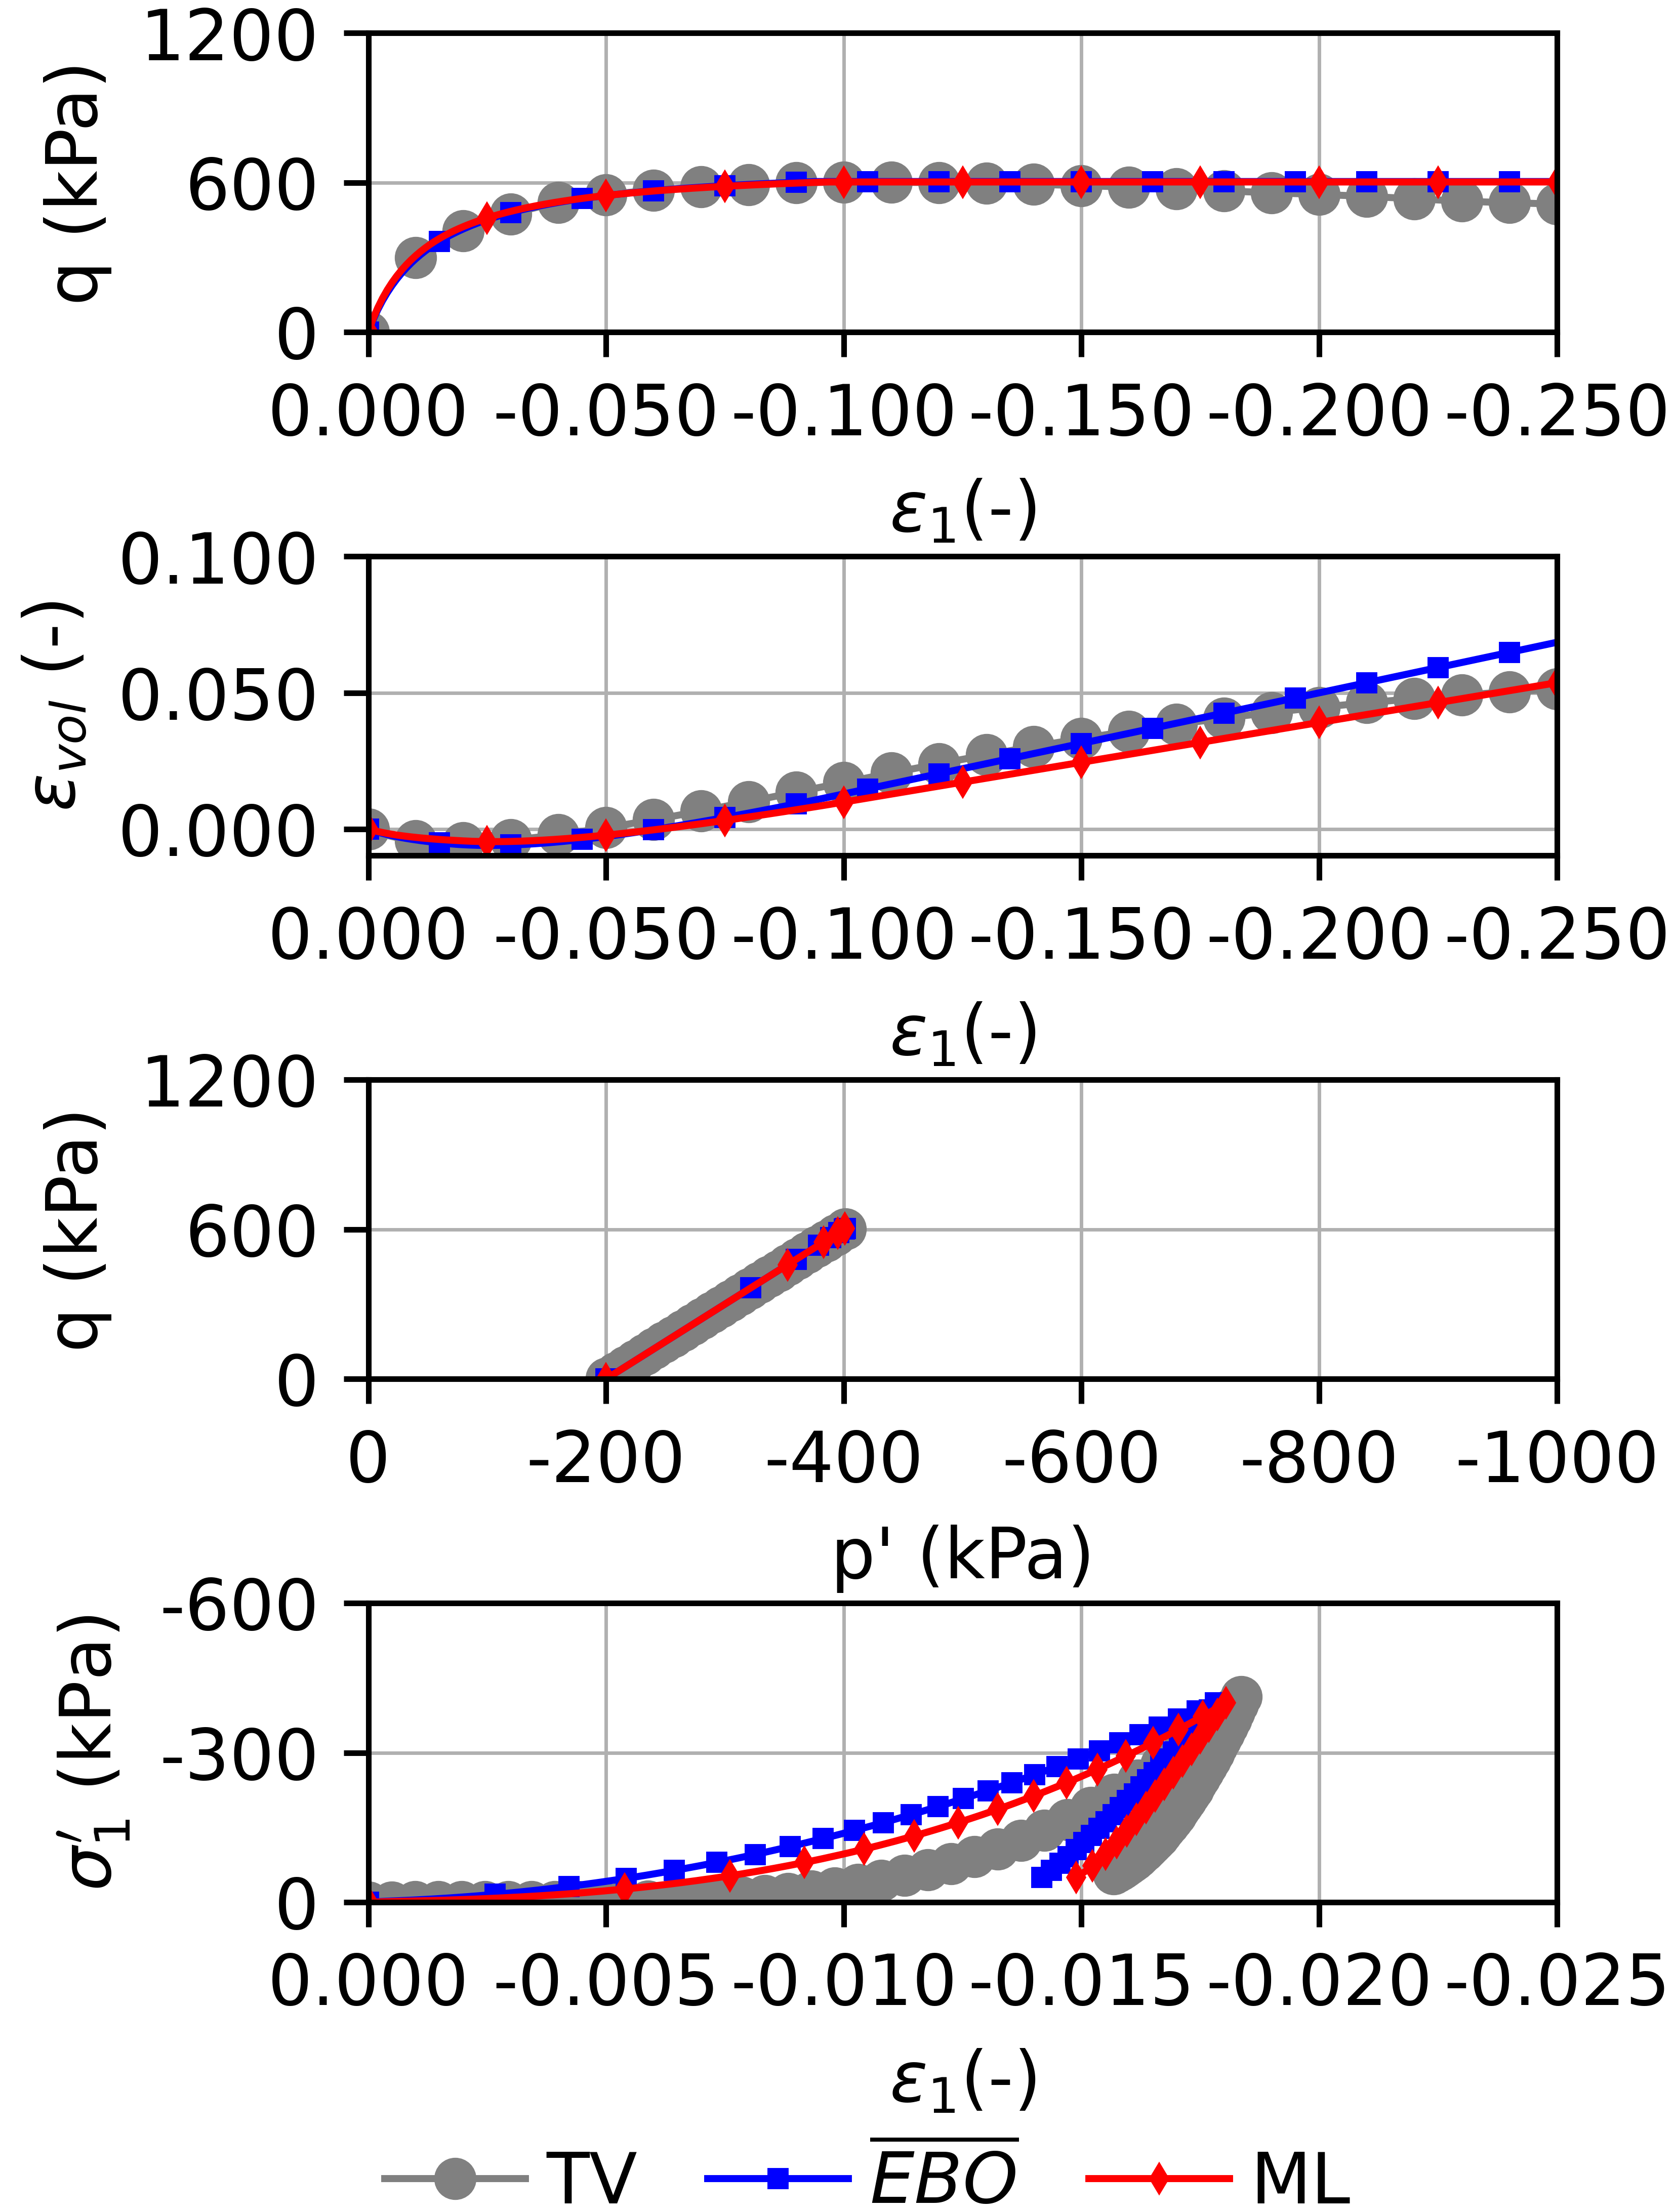
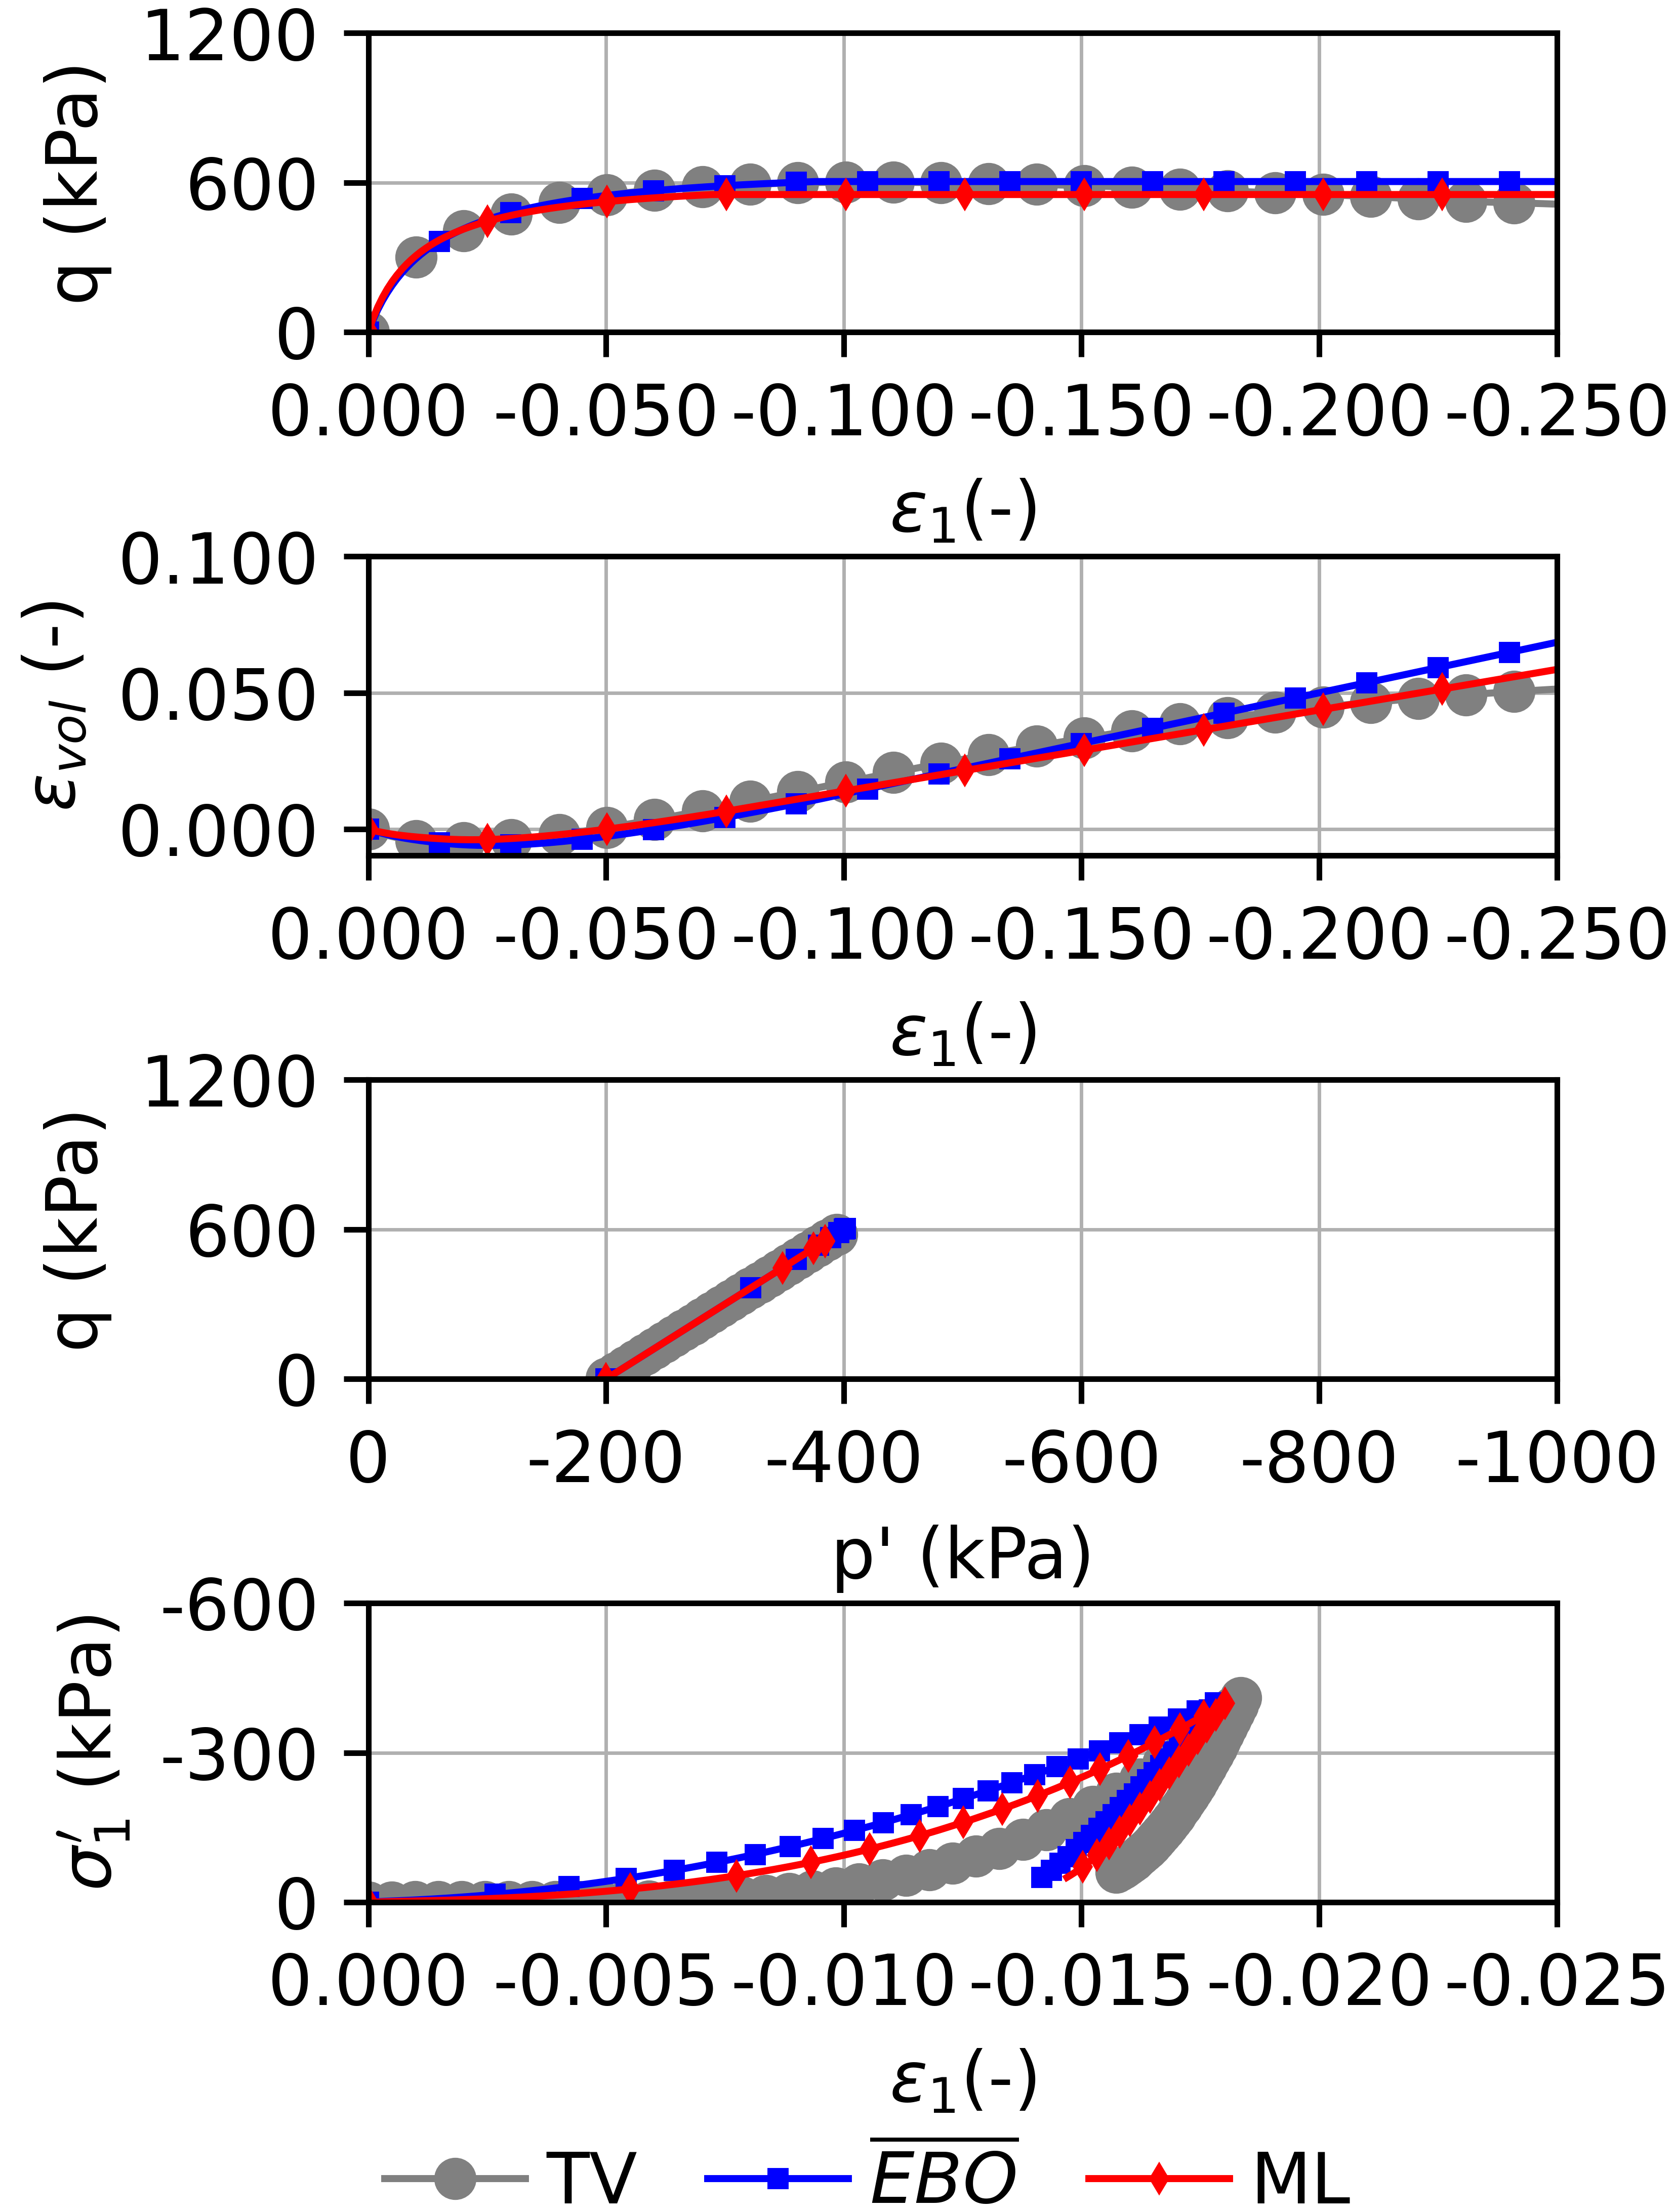
update

diff --git a/src/PLAXIS_10_Soil_test_RUN.py b/src/PLAXIS_10_Soil_test_RUN.py
@@ -158,16 +158,15 @@ g_i.soiltest(HS_mat)
 # x = pd.read_csv(r'C:\Users\haris\Documents\GitHub\MLpFEM\data\pred_analysis_realTest_karlsruhe.txt', delimiter='\t', header=None)
 # x = pd.read_csv(r'C:\Users\haris\Documents\GitHub\MLpFEM\data\pred_analysis_synthetictest_101_SyntheticExampleB.txt', delimiter='\t', header=None)
 # x = pd.read_csv(r'C:\Users\haris\Documents\GitHub\MLpFEM\data\pred_analysis_realTest_02_analysis_RealTest_Karlsruhe_100kPa_new.txt', delimiter='\t', header=None)
-# x = pd.read_csv(r'C:\Users\haris\Documents\GitHub\MLpFEM\data\pred_analysis_realTest_01_analysis_RealTest_Karlsruhe_200kPa_new_database.txt', delimiter='\t', header=None)
-x = pd.read_csv(r'C:\Users\haris\Documents\GitHub\MLpFEM\data\pred_analysis_synthetictest_102_SyntheticExample_Final.txt', delimiter='\t', header=None)
+x = pd.read_csv(r'C:\Users\haris\Documents\GitHub\MLpFEM\data\pred_analysis_realTest_01_analysis_RealTest_Karlsruhe_200kPa_new_database.txt', delimiter='\t', header=None)
+# x = pd.read_csv(r'C:\Users\haris\Documents\GitHub\MLpFEM\data\pred_analysis_synthetictest_102_SyntheticExample_Final.txt', delimiter='\t', header=None)
 # x = pd.read_csv(r'C:\Users\haris\Documents\GitHub\MLpFEM\data\pred_analysis_realTest_01_analysis_RealTest_Karlsruhe_200kPa_Islam.txt', delimiter='\t', header=None)
 # x = pd.read_csv(r'C:\Users\haris\Documents\GitHub\MLpFEM\data\pred_analysis_realTest_02_analysis_RealTest_Karlsruhe_100kPa_Islam.txt', delimiter='\t', header=None)
 
 # path = r'..\\data\06_analysis_RealTest_Karlsruhe\10_MachineLearning\\'
 # path = r'..\\data\100_SyntheticExampleA\11_SoilTestOutput\\'
-# path = r'..\\data\01_analysis_RealTest_Karlsruhe_200kPa\10_MachineLearning\\'
-path = r'..\\data\\102_SyntheticExample_Final\10_MachineLearning\\'
-#path = r'..\\data\02_analysis_RealTest_Karlsruhe_100kPa\11_Islam\\'
+path = r'..\\data\01_analysis_RealTest_Karlsruhe_200kPa\10_MachineLearning\\'
+# path = r'..\\data\\102_SyntheticExample_Final\10_MachineLearning\\'
 
 triaxial_and_oed(x.iloc[0,1], x.iloc[1,1], x.iloc[2,1], x.iloc[3,1],
                         x.iloc[4,1], x.iloc[5,1], x.iloc[6,1], x.iloc[7,1],

diff --git a/src/04_a_main_Data_preprocessing_realtest.py b/src/04_a_main_Data_preprocessing_realtest.py
@@ -181,7 +181,7 @@ file_true = path_real + r"\01_rawdata_cropped\\" + file_names_real[2]
 
 x_syn, y_pred = interpolate_and_plot(axs[1, 0], file_true, "$p'$ (kPa)", '$q$ (kPa)',
                                       (0, 1000), (0, -600), invert_x=True, degree=10,
-                                      x_multi = -1, y_multi = 1, x_syn = y_pred_q, interp_change = False, num = 251)
+                                      x_multi = -1, y_multi = 1, x_syn = y_pred_q, interp_change = False, num = 250)
 
 # x_syn, y_pred = interpolate_and_plot(axs[1, 0], file_true, "$p'$ (kPa)", '$q$ (kPa)',
 #                                      (0, 1000), (0, -900), invert_x=True, degree=5,